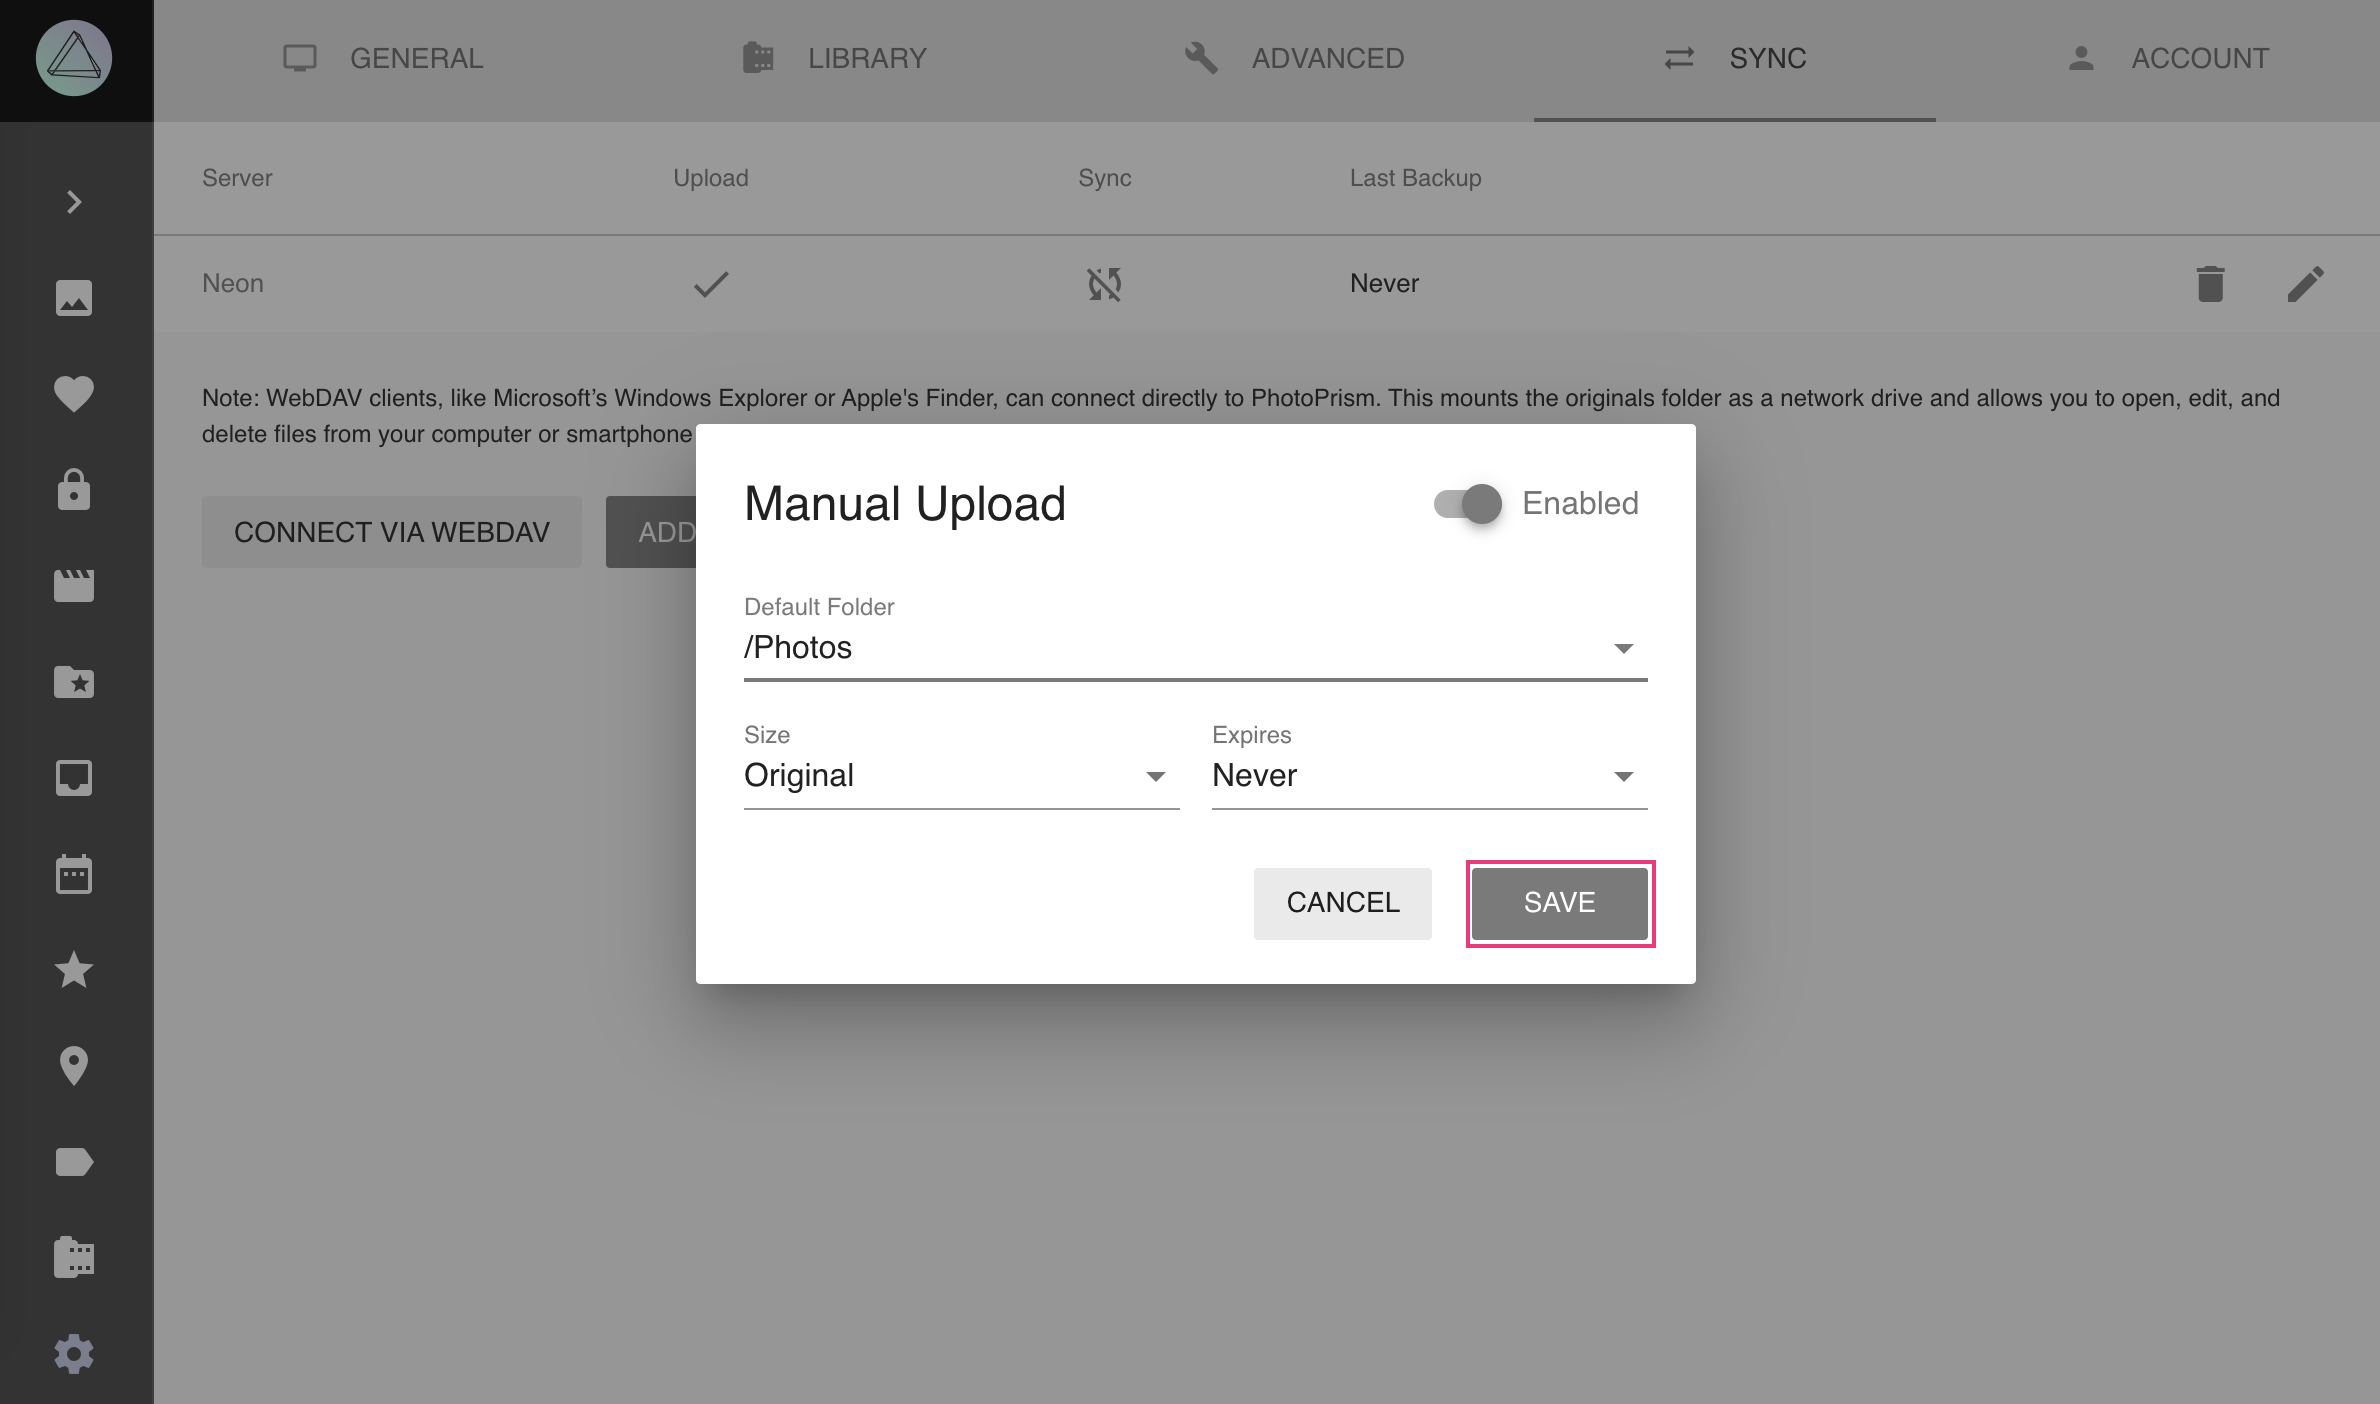
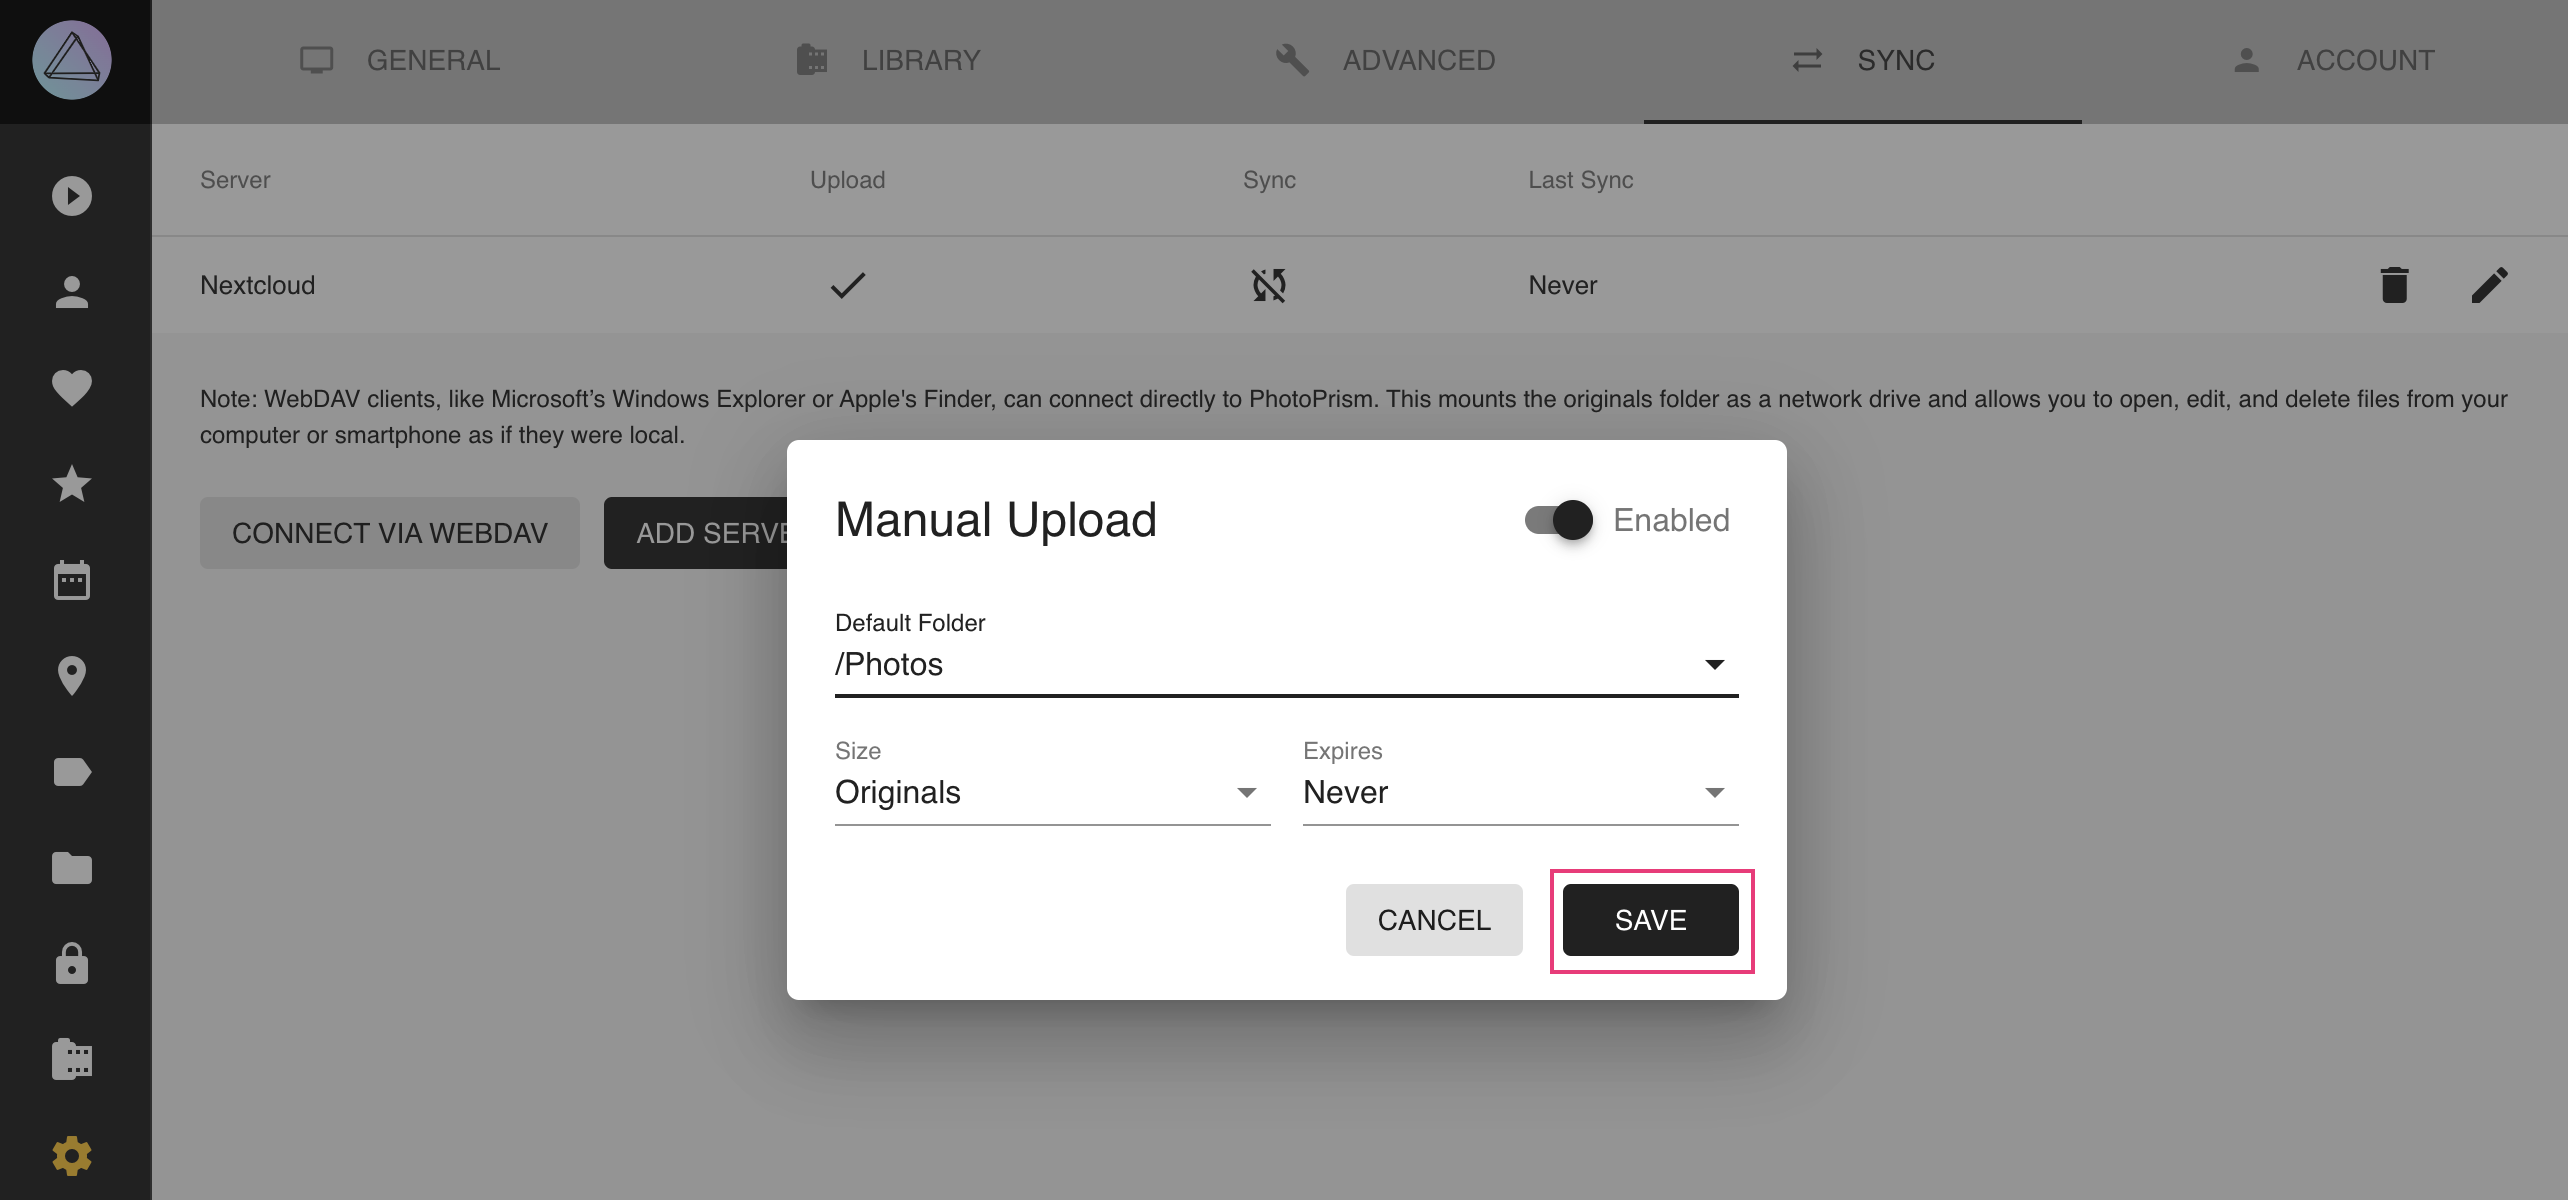
User Guide: Update sync.md

diff --git a/docs/user-guide/settings/sync.md b/docs/user-guide/settings/sync.md
@@ -48,23 +48,24 @@ so that you can automatically sync your latest pictures.
 !!! attention ""
     Due to problems with some Nextcloud settings it might be that uploading to Nextcloud results in 0 byte files. You find information on how to solve it [here](https://github.com/photoprism/photoprism/issues/443).
 
-## Backup/Sync Files with your Server ##
+## Automatically Upload/Download Files to/from a WebDAV Server ##
 
 1. Go to *Settings*
 2. Open *Sync* tab
 3. Click into the sync cell of your server
 ![Screenshot](img/sync-sync-1.png)
 4. Enable synchronization in the upper right corner
-5. Choose the folder in which all your photos are located
-6. Select how often you want your files to be synced
-7. Select the options that are suitable for you and click *save*
+5. Choose a folder on your server
+6. Choose a sync interval
+7. Select the options that are suitable for you and click *Save*
+
 
 ![Screenshot](img/sync-sync-2.png)
 
 ### Remote Sync Options ###
 
-* *Download remote files* will download all files from your server that do not yet exist in PhotoPrism
-* *Upload local files* will upload all files from PhotoPrism to your server that do not yet exist there
+* *Download remote files* will download all files from the selected folder on your server that do not yet exist in PhotoPrism
+* *Upload local files* will upload all files (including private or archived ones) from PhotoPrism to your server that do not yet exist there
 * *Preserve filenames* will keep filenames from your server without renaming them
 * *Sync raw and video files* will upload/download raw and video files alongside with JPEGS
 
